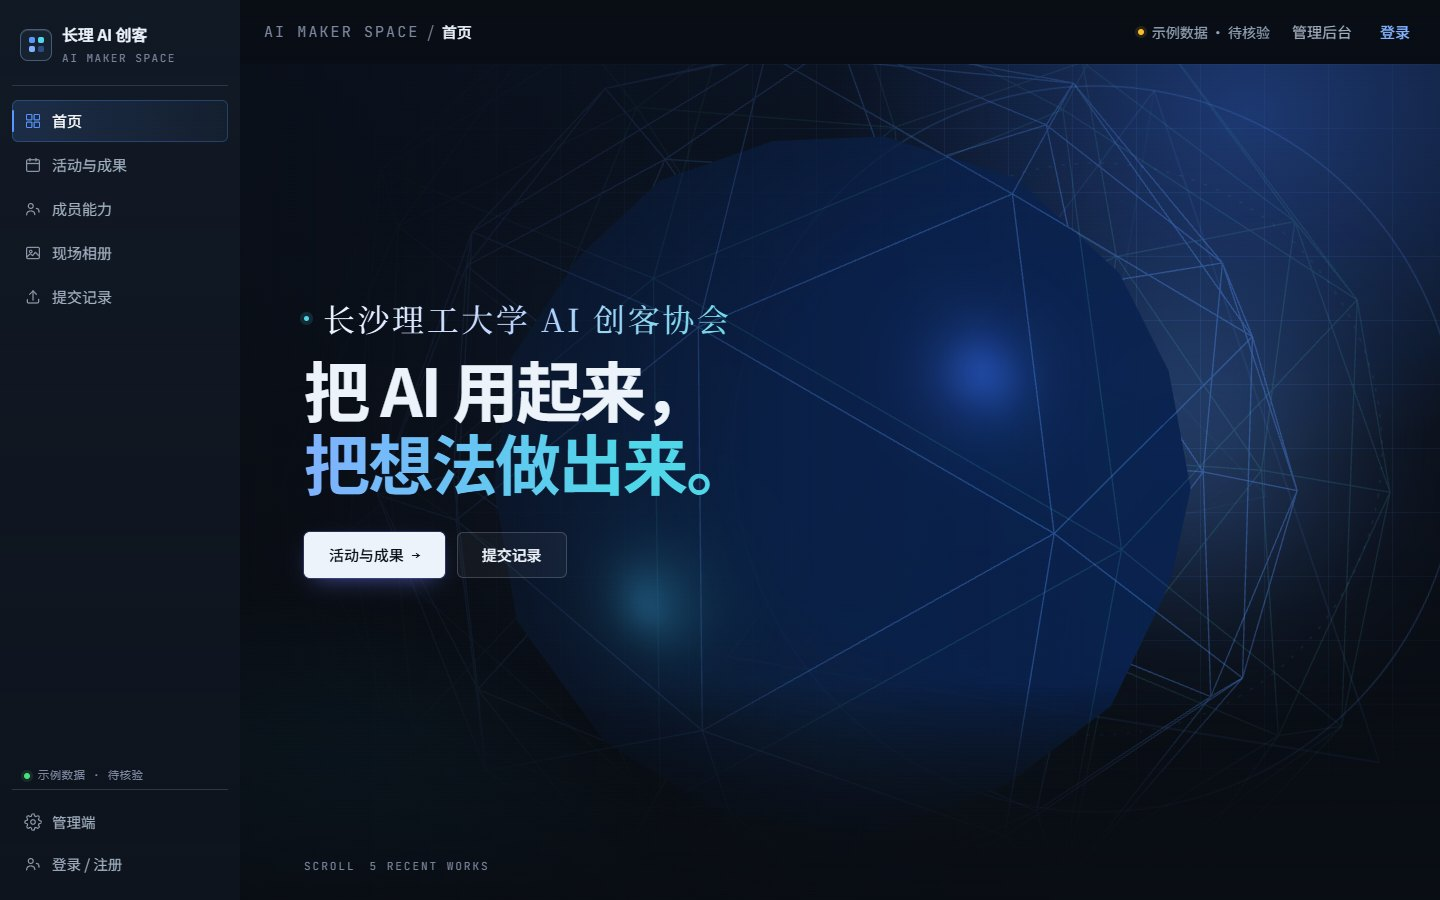
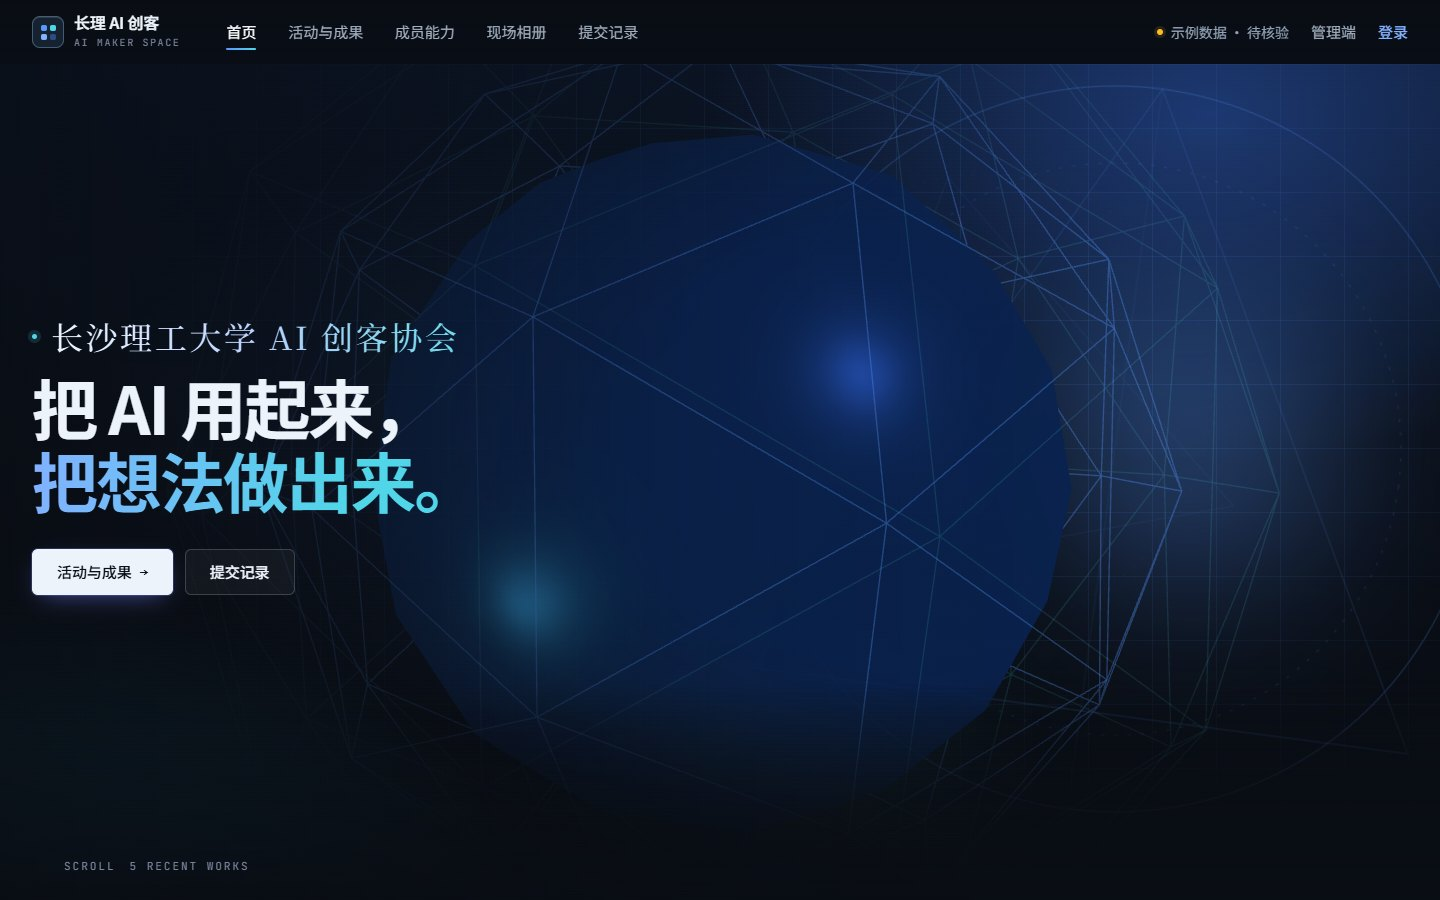
feat: 左侧栏导航改为顶部横向导航（参考 shlab）
- 顶部固定栏：品牌在左、导航居中、数据状态/管理端/登录在右；当前页高亮下划线
- 移除左侧栏布局，内容区全宽；首页首屏占满一屏（100vh - 顶栏）
- 移动端：导航收起为右上角菜单按钮，抽屉保留全部入口
- 页头补左右内边距适配新布局；截图更新

diff --git a/src/styles/app-theme.css b/src/styles/app-theme.css
@@ -1003,3 +1003,87 @@ body { font-size: 16px; }
   .home-featured-foot { gap: 14px; }
   .home-featured-link:first-of-type { margin-left: 0; }
 }
+
+/* ============================================================
+  2026-10-28 布局调整：左侧栏导航 → 顶部横向导航（参考 shlab）
+   ============================================================ */
+.site-header {
+  position: sticky;
+  top: 0;
+  z-index: 70;
+  height: var(--nav-h);
+  background: linear-gradient(180deg, rgba(9, 13, 20, 0.96), rgba(9, 13, 20, 0.62));
+  backdrop-filter: blur(16px) saturate(140%);
+  -webkit-backdrop-filter: blur(16px) saturate(140%);
+}
+.site-header-inner {
+  width: 100%;
+  max-width: 1440px;
+  height: 100%;
+  margin: 0 auto;
+  padding: 0 clamp(18px, 3vw, 32px);
+  display: flex;
+  align-items: center;
+  gap: clamp(12px, 2vw, 32px);
+}
+.site-brand { display: flex; align-items: center; gap: 10px; text-decoration: none; flex: none; }
+.site-brand-text b { display: block; font-size: 16px; font-weight: 600; color: var(--fg); letter-spacing: -0.01em; line-height: 1.2; }
+.site-brand-text span { display: block; margin-top: 2px; font-family: var(--font-mono); font-size: 10px; letter-spacing: 0.16em; color: var(--fg-4); }
+
+.site-nav { display: flex; align-items: center; gap: clamp(16px, 2.2vw, 34px); margin-left: clamp(4px, 1.2vw, 22px); }
+.site-nav a {
+  position: relative;
+  display: inline-flex;
+  align-items: center;
+  min-height: 40px;
+  padding: 4px 0;
+  font-size: 15px;
+  color: var(--fg-2);
+  text-decoration: none;
+  transition: color 0.2s var(--ease-standard);
+}
+.site-nav a:hover { color: #fff; }
+.site-nav a.active { color: #fff; }
+.site-nav a.active::after {
+  content: "";
+  position: absolute;
+  left: 0;
+  right: 0;
+  bottom: 2px;
+  height: 2px;
+  border-radius: 2px;
+  background: linear-gradient(90deg, var(--accent), var(--cyan));
+}
+.site-actions { margin-left: auto; display: flex; align-items: center; gap: clamp(10px, 1.6vw, 22px); }
+.site-action, .site-auth { display: inline-flex; align-items: center; min-height: 40px; font-size: 15px; color: var(--fg-2); text-decoration: none; }
+.site-action:hover { color: #fff; }
+.site-auth { color: var(--accent-hi); font-weight: 500; }
+.site-auth:hover { color: #fff; }
+.site-menu-btn { display: none; }
+
+.app-content { padding: 0 0 48px; max-width: none; }
+.home-hero { margin: 0; min-height: calc(100vh - var(--nav-h)); }
+.home-hero-inner { max-width: 1440px; margin: 0 auto; padding: clamp(18px, 3vw, 44px) clamp(18px, 3vw, 32px) 96px; }
+.home-featured { padding-left: clamp(18px, 3vw, 32px); padding-right: clamp(18px, 3vw, 32px); }
+
+@media (max-width: 1024px) {
+  .site-nav { display: none; }
+  .site-menu-btn { display: inline-flex; }
+  .site-header-inner { gap: 12px; }
+  .data-flag { display: none; }
+  .home-hero { min-height: calc(100dvh - var(--nav-h)); margin: 0; }
+  .home-hero-inner { padding: 18px clamp(18px, 3vw, 28px) 56px; }
+}
+@media (max-width: 640px) {
+  .site-action { display: none; }
+  .site-brand-text span { display: none; }
+  .site-brand-text b { font-size: 15px; }
+  .site-header-inner { padding: 0 16px; }
+  .home-hero-inner { padding: 14px 18px 44px; }
+}
+
+/* 顶部导航布局下，页头需要自己的左右内边距（原来靠内容区 padding） */
+.page-header { padding-left: clamp(18px, 3vw, 32px); padding-right: clamp(18px, 3vw, 32px); }
+@media (max-width: 640px) {
+  .page-header { padding-left: 18px; padding-right: 18px; }
+}
